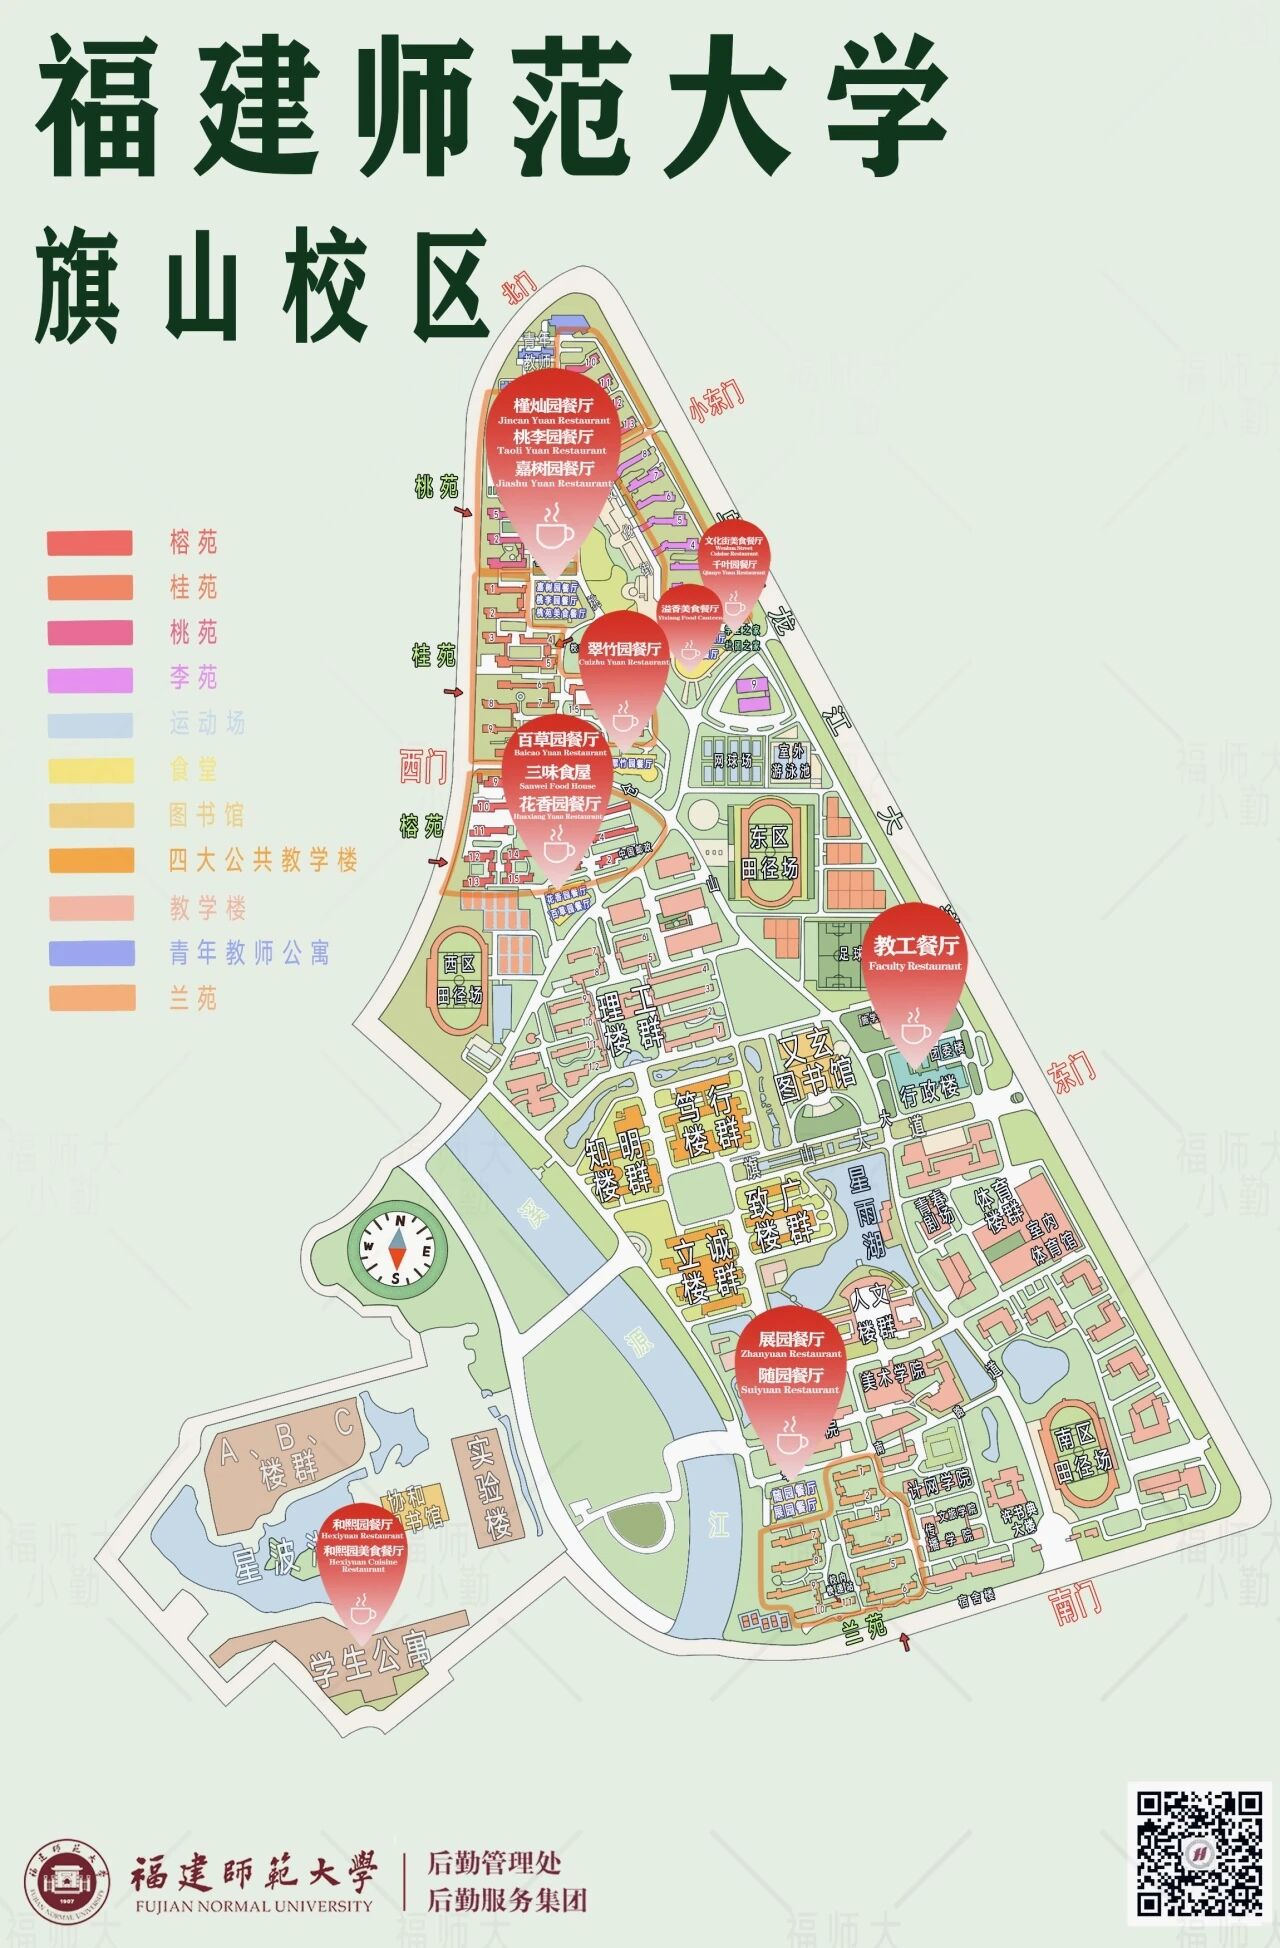
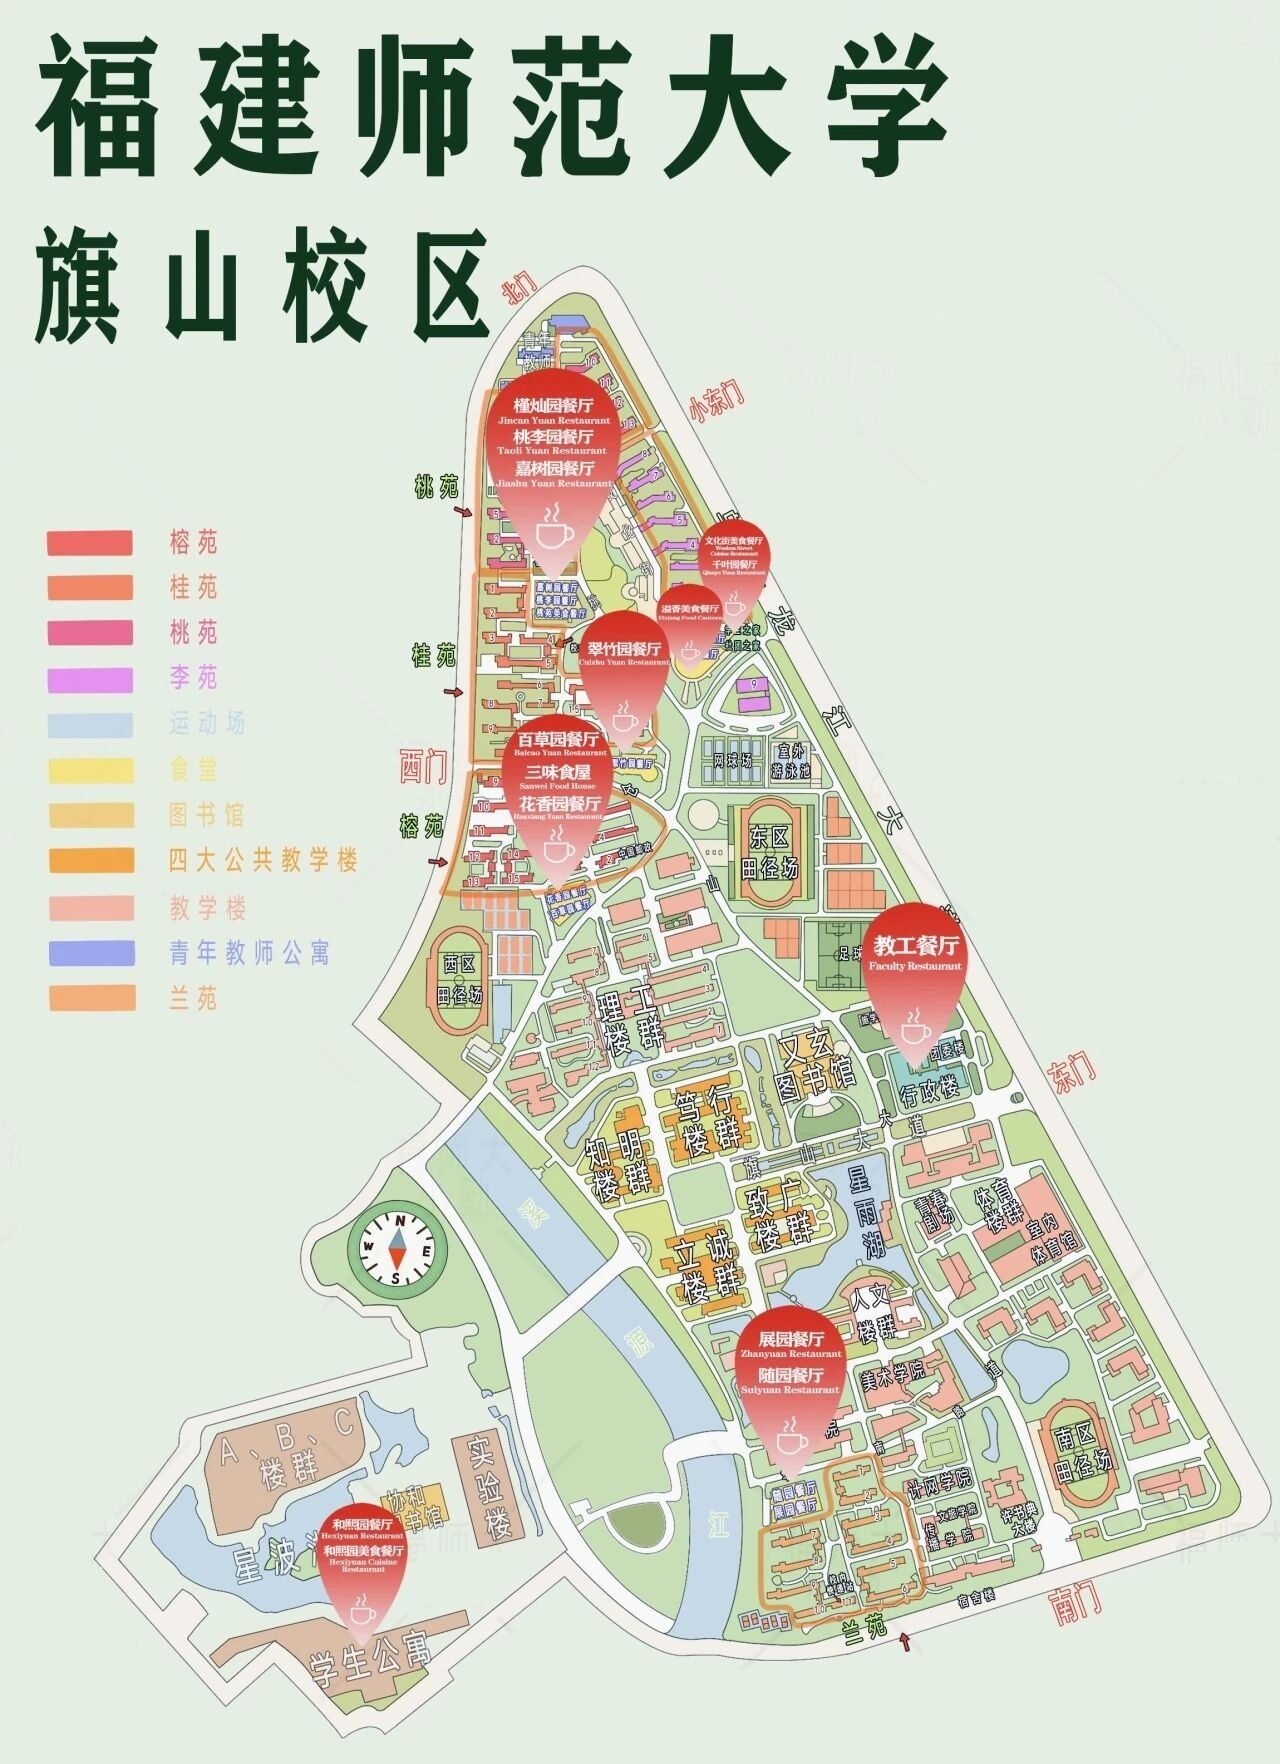
perf(live\\living\* services\\pics\*): 水电缴费信息补充；图片去水印

diff --git a/docs/live/living.md b/docs/live/living.md
@@ -116,10 +116,10 @@
 宿舍水电费每月一结算（暑假则为两个月一并结算），全宿舍一起算，使用工商银行卡缴费（若没有工商银行的卡，开通网银账号后使用其它银行的卡同样可以缴费）。到缴费的时候，楼管会在宿舍楼下和宿舍楼栋群内发布通知。（同账号缴费一次后，后续缴费无需再进行扫码，直接进入 中国工商银行APP - 水电费 进行缴纳即可。进行缴费时若有费用为 0 元的项目，请勿勾选，否则缴费时会报错）
 
 !!! tip "提示"
-    宿舍现行的水电费收费标准为：水费 2.6 元/吨、电费 0.533 元/度。  
-    学生享受 2 吨/人/月 的水费减免、5 度/人/月 的电费减免，相关收费会在缴费前依照宿舍实住人数直接免除。
+    宿舍现行的水电费收费标准为：水费 2.6 元/吨（旗山） 3.59 元/吨（仓山）、电费 0.533 元/度。  
+    学生在每个月份（7、8月除外）均享受 2 吨/人/月 的水费减免、5 度/人/月 的电费减免，相关收费会在缴费前依照宿舍实住人数直接免除。
 
-    若对水电费有疑惑，可以在工作时间内前往花香园食堂 3 楼后勤服务大厅能源科（联系电话：0591-22867655）查询宿舍每天的用水、用电情况。
+    若对水电费有疑惑，可以在工作时间内前往旗山校区花香园食堂 3 楼后勤服务大厅能源科（联系电话：0591-22867655） / 仓山校区后勤楼能源管理科（联系电话：0591-83465198）查询宿舍每天的用水、用电情况。
 
 ### 更换床位/桌位 {#bed-change}
 
